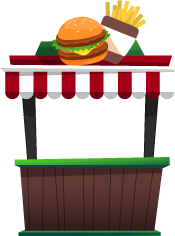
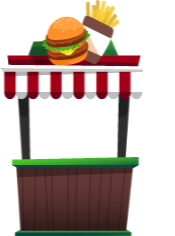
update

diff --git a/src/App.css b/src/App.css
@@ -394,6 +394,13 @@ button:hover,
   margin: 0 auto;
 }
 
+.counter {
+  height: 171px;
+  background: url(./assets/img/static/counter.png) no-repeat;
+  background-size: contain;
+  background-position-x: 81px;
+}
+
 .parking-manager {
   position: absolute;
   left: 55px;
@@ -1622,6 +1629,13 @@ table.table {
     height: 116px;
     left: -47px;
   }
+
+  .counter {
+    height: 116px;
+    background-size: contain;
+    background-position-x: 27px;
+  }
+
 
   .btn-floor {
     margin-top: 30px;

diff --git a/src/components/floor0.js b/src/components/floor0.js
@@ -6,8 +6,10 @@ import DeliveryMan from "./animations/deliveryMan";
 const Floor0 = () => {
     return (
         <div className="floor-0">
-            {/* <ParkingManager />
-            <DeliveryMan nSpeed={5} /> */}
+            <div className='counter'>
+                {/* <ParkingManager /> */}
+            </div>
+            {/* <DeliveryMan nSpeed={5} /> */}
         </div>
     )
 }
